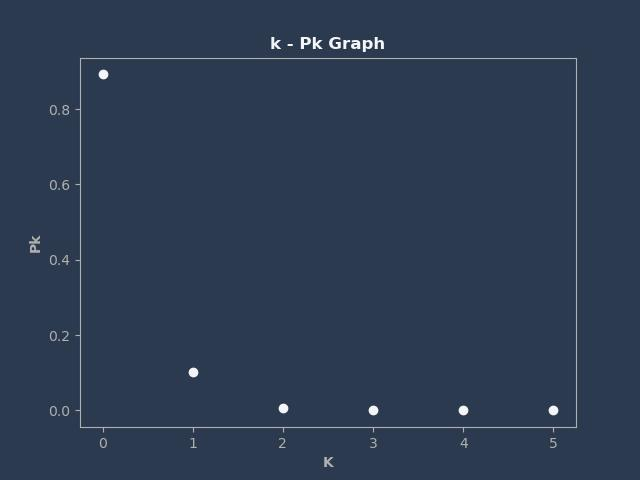
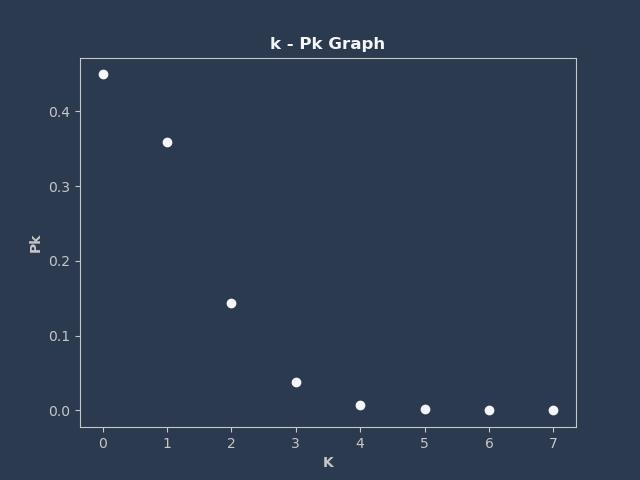
Color light 2

diff --git a/src/graphicPage.py b/src/graphicPage.py
@@ -76,6 +76,9 @@ Builder.load_string("""
                         CTextInput:
                             id: state
                             hint_text: "K"
+                        CTextInput:
+                            id: xLength
+                            hint_text: "xLength"
                     BoxLayout:
                         padding: [dp(20), dp(20)]
                         Button:
@@ -177,16 +180,16 @@ class GraphicPage(Screen):
             "state": int(self.ids.state.text)
         }
 
-        graph_A_Ls = Graphs(input, 40)
+        graph_A_Ls = Graphs(input, int(self.ids.xLength.text))
         graph_A_Ls.create_A_Ls_Graph()
 
-        graph_k_Pk = Graphs(input, 40)
+        graph_k_Pk = Graphs(input, int(self.ids.xLength.text))
         graph_k_Pk.create_k_Pk_Graph()
 
-        graph_A_Ws = Graphs(input, 40)
+        graph_A_Ws = Graphs(input, int(self.ids.xLength.text))
         graph_A_Ws.create_A_Ws_Graph()
 
-        graph_A_Py = Graphs(input, 40)
+        graph_A_Py = Graphs(input, int(self.ids.xLength.text))
         graph_A_Py.create_A_Py_Graph()
 
         self.switchGraph()
@@ -198,6 +201,7 @@ class GraphicPage(Screen):
         self.ids.mu.text = ""
         self.ids.y.text = ""
         self.ids.state.text = ""
+        self.ids.xLength.text = ""
         self.ids.Pk.text = "0"
         self.ids.Py.text = "0"
         self.ids.Ls.text = "0"

diff --git a/src/CustomWidgets.py b/src/CustomWidgets.py
@@ -17,7 +17,7 @@ Builder.load_string("""
 <TextParameter>:
     font_name: "DMSans.ttf"
     font_size: 26
-    color: root.text_color_1
+    color: root.text_color_2
     size_hint_x: None
     size: self.texture_size
 
@@ -44,7 +44,7 @@ class CLabel(Label):
     text_color_1 = Styles.light_1_color
 
 class TextParameter(Label):
-    text_color_1 = Styles.light_1_color
+    text_color_2 = Styles.light_2_color
 
 class CTextInput(TextInput):
     pass

diff --git a/src/styles.py b/src/styles.py
@@ -9,7 +9,7 @@ class Styles:
     primary_color = rgba("#202b3b")
     secondary_color = rgba("#2b3a4f")
     light_1_color = rgba("#F4F5F8")
-    light_2_color = rgba("#B0B0B0")
+    light_2_color = rgba("#c5c7c9")
     danger_color = rgba("#eb3434")
     warning_color = rgba("#ebd934")
     success_color = rgba("#3deb34")
